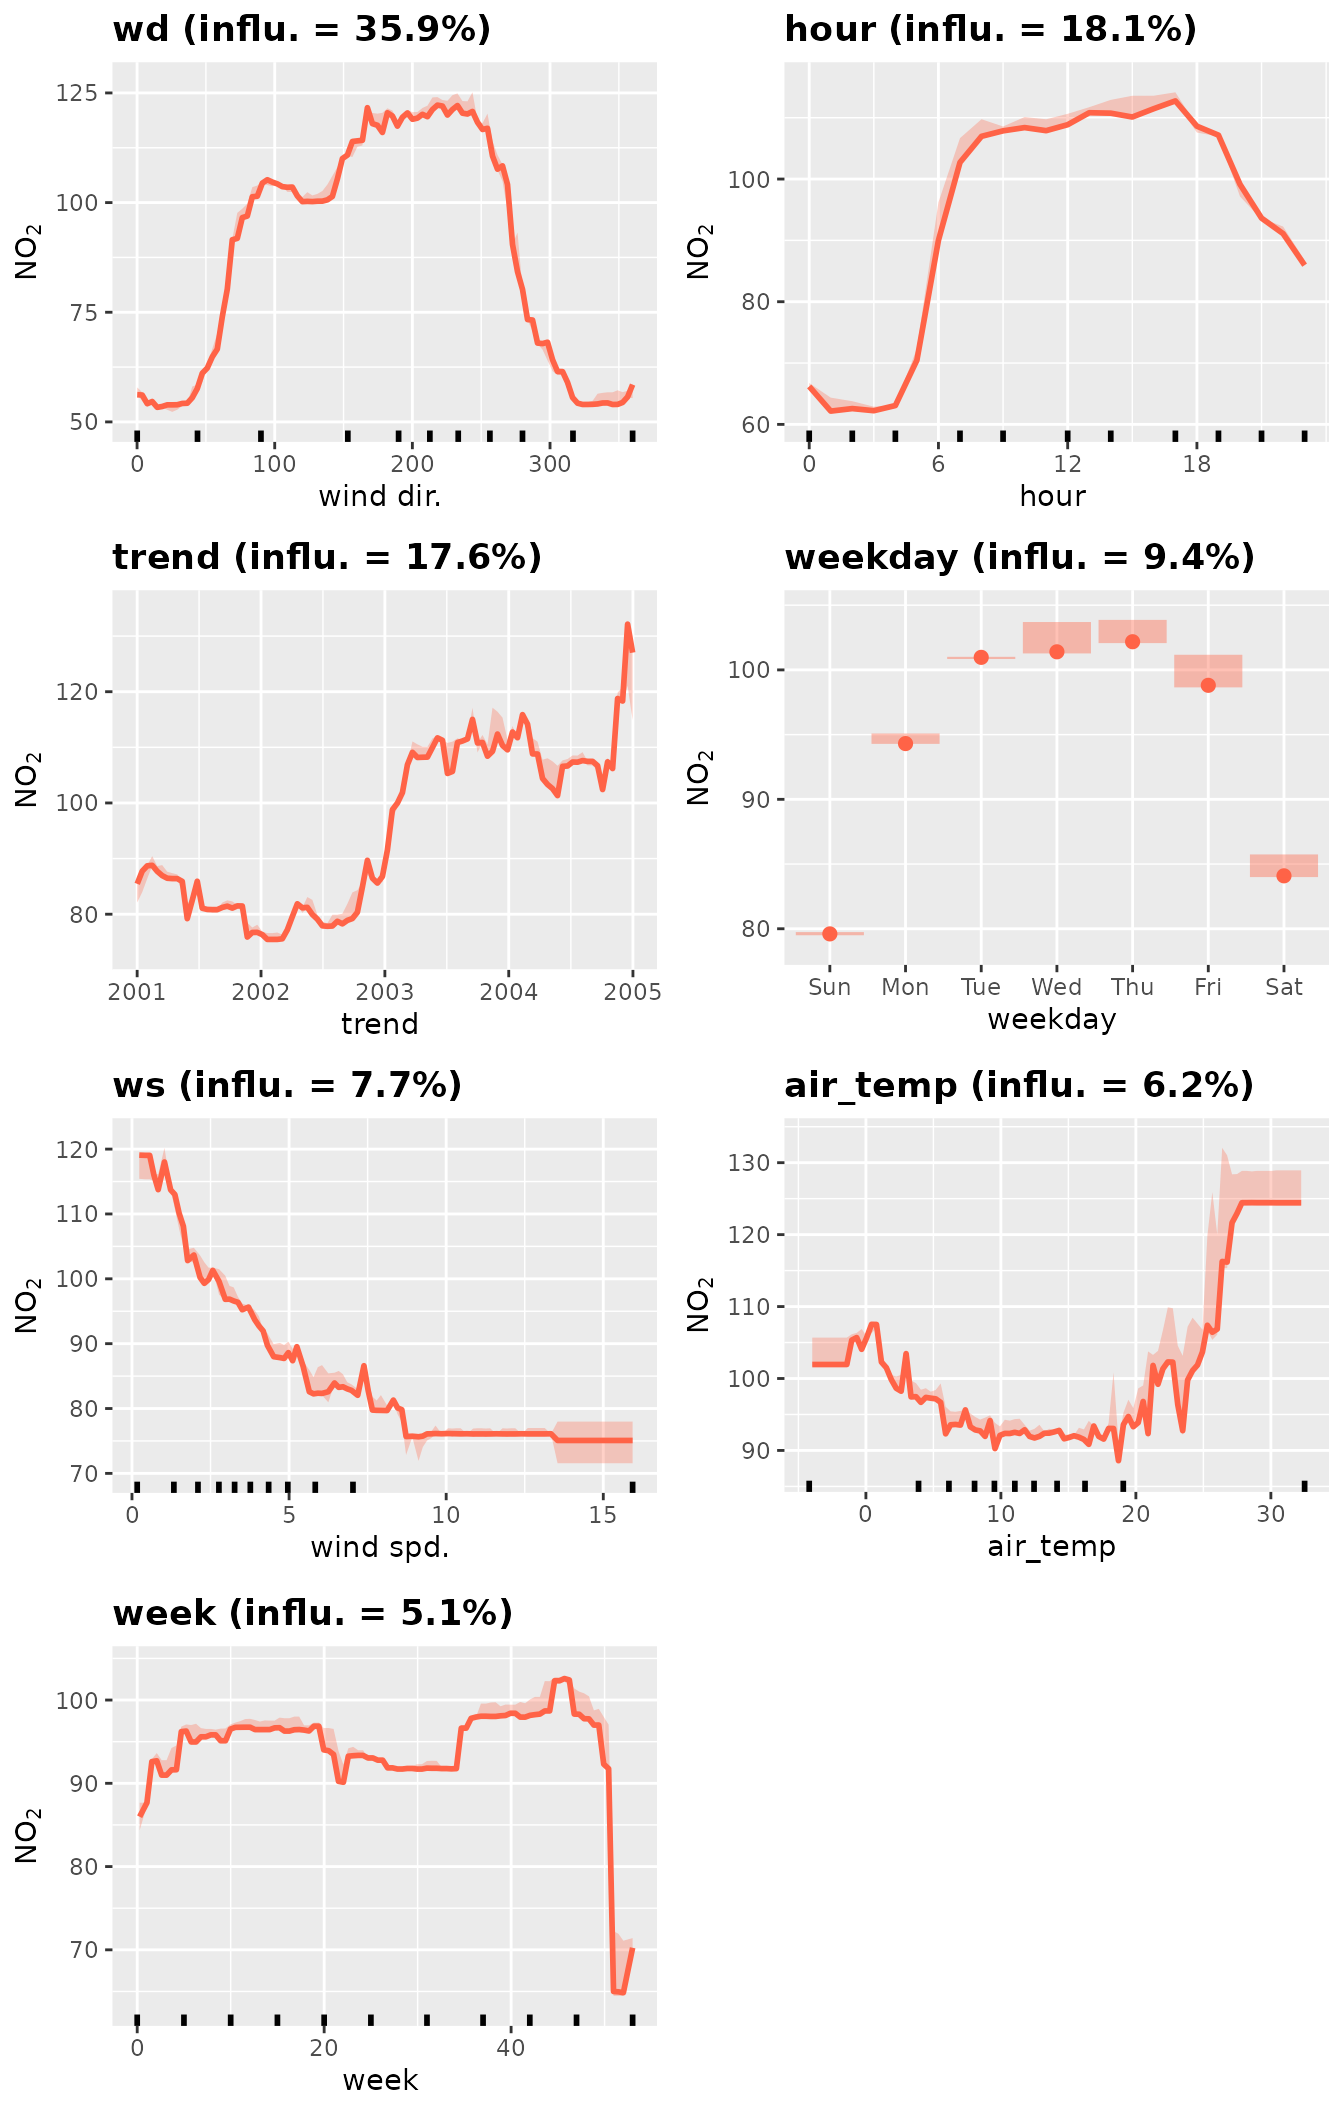
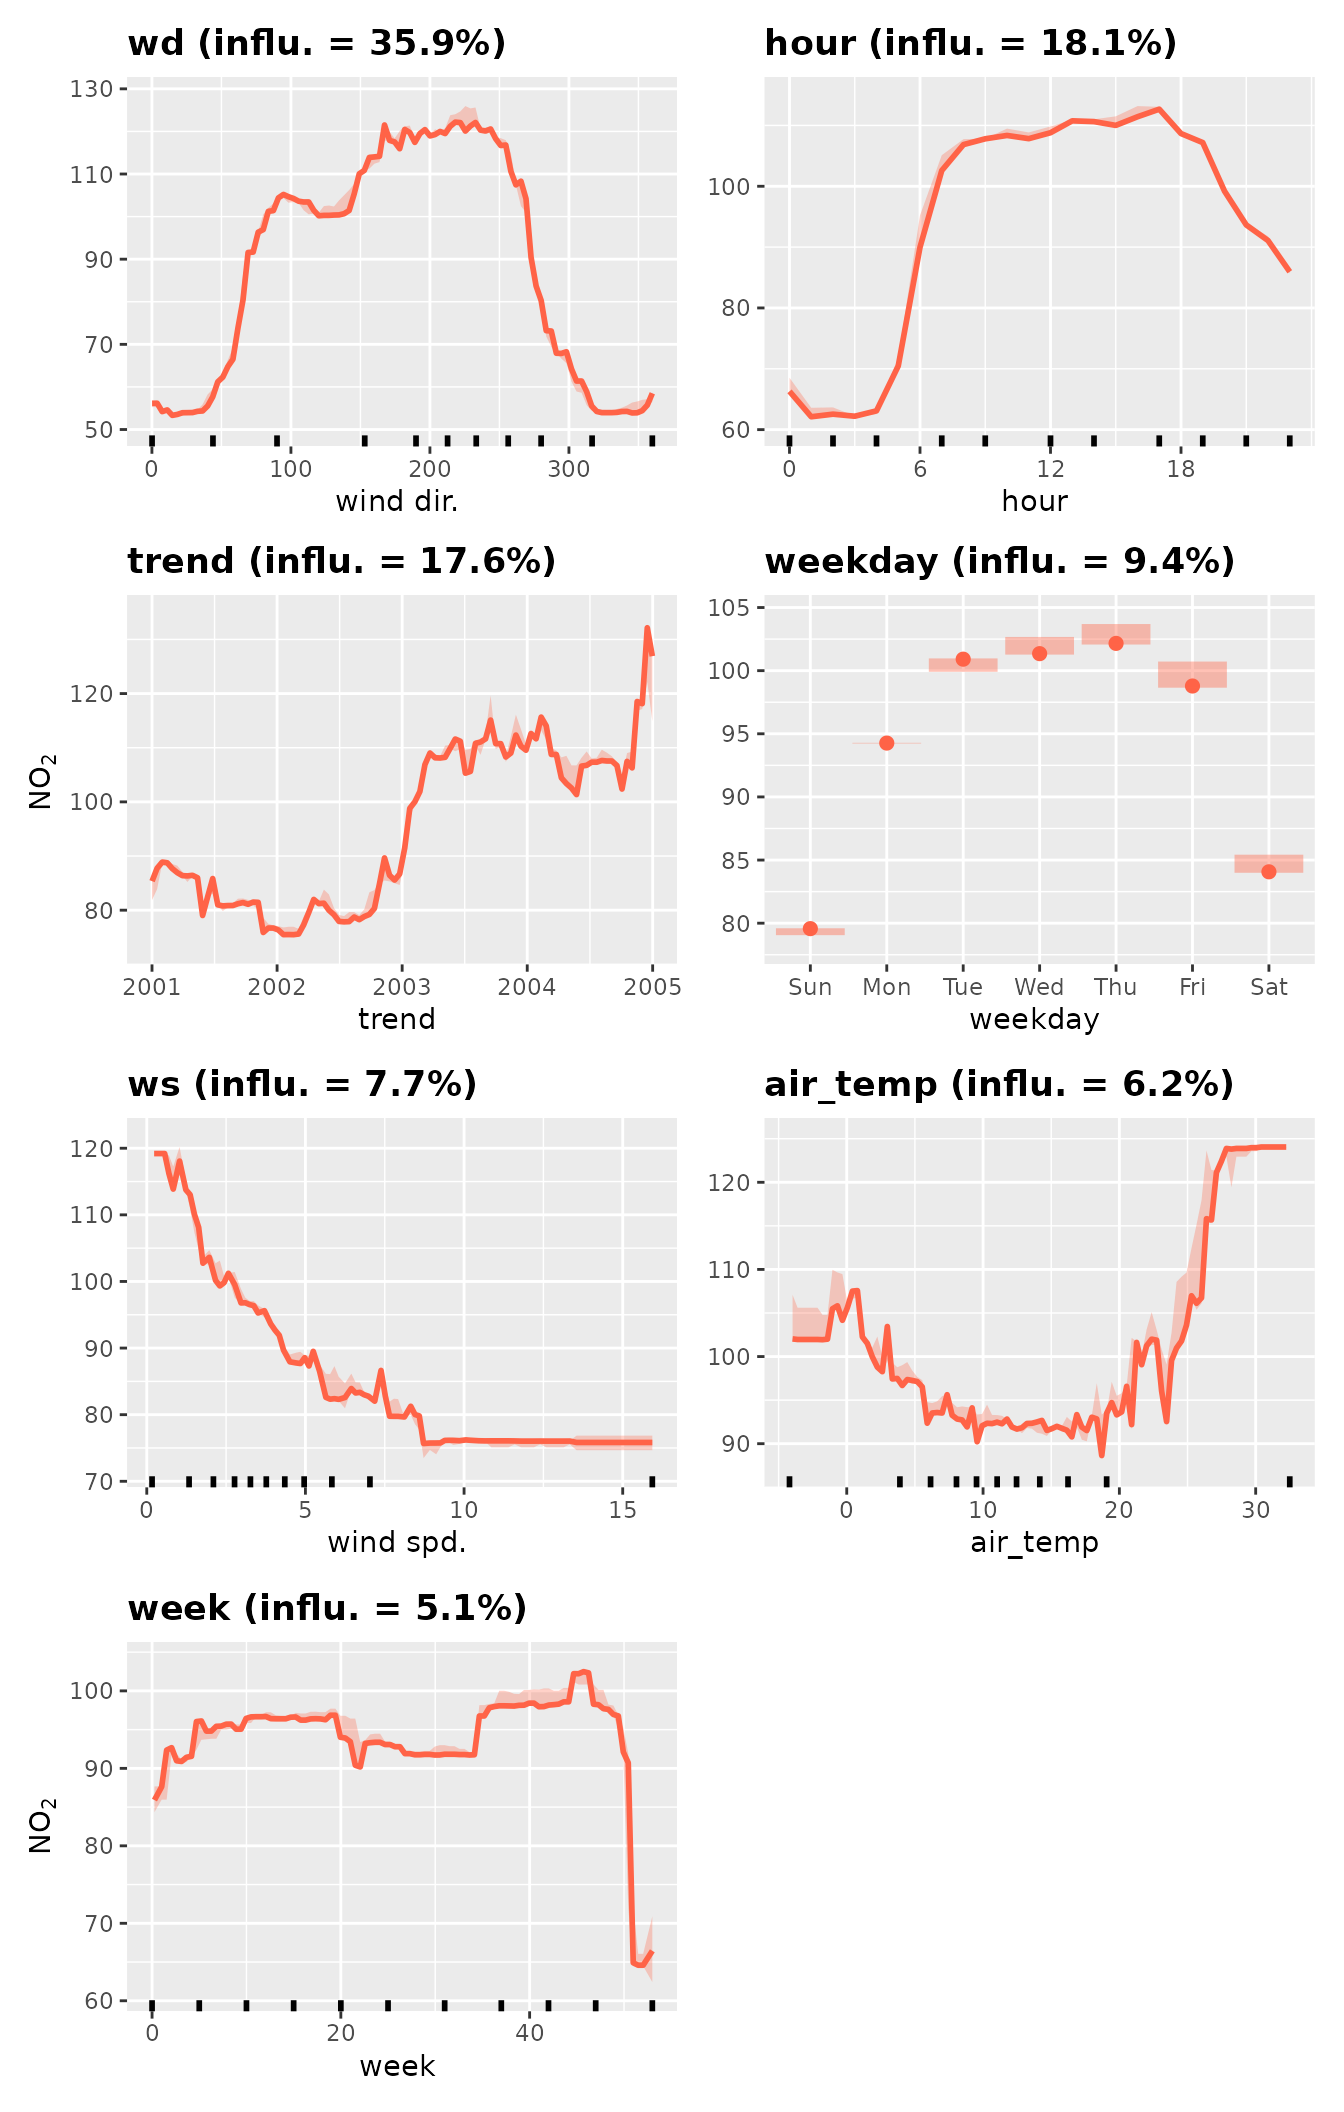
Deploying to gh-pages from @ davidcarslaw/deweather@df55d6a0297abe14c2368fe1ece583317ce153d7 🚀

diff --git a/news/index.html b/news/index.html
@@ -42,6 +42,10 @@
     <div class="section level2">
 <h2 class="pkg-version" data-toc-text="development version" id="deweather-development-version">deweather (development version)<a class="anchor" aria-label="anchor" href="#deweather-development-version"></a></h2>
 <div class="section level3">
+<h3 id="new-features-development-version">New Features<a class="anchor" aria-label="anchor" href="#new-features-development-version"></a></h3>
+<ul><li>The plot assemblies in <code><a href="../reference/plotPD.html">plotPD()</a></code> and <code><a href="../reference/testMod.html">testMod()</a></code> are now powered by <a href="https://patchwork.data-imaginist.com" class="external-link">patchwork</a>. This will allow for more post-hoc control of the plot assembly using <code>&amp;</code> for example.</li>
+</ul></div>
+<div class="section level3">
 <h3 id="bug-fixes-development-version">Bug fixes<a class="anchor" aria-label="anchor" href="#bug-fixes-development-version"></a></h3>
 <ul><li><p>Fixed an issue where <code><a href="../reference/buildMod.html">buildMod()</a></code> would fail if there wasn’t a character variable (e.g., “weekday”).</p></li>
 <li><p>added <code>ylab</code> back as an explicit option for <code>plotPD</code>.</p></li>
@@ -86,7 +90,7 @@
 </div>
     <div class="section level2">
 <h2 class="pkg-version" data-toc-text="0.7-1" id="deweather-07-1">deweather 0.7-1<a class="anchor" aria-label="anchor" href="#deweather-07-1"></a></h2>
-<ul><li>Development version of <a href="https://davidcarslaw.github.io/deweather/">deweather</a>.</li>
+<ul><li>First development version of <a href="https://davidcarslaw.github.io/deweather/">deweather</a>.</li>
 </ul></div>
   </main><aside class="col-md-3"><nav id="toc" aria-label="Table of contents"><h2>On this page</h2>
     </nav></aside></div>

diff --git a/reference/plotPD.html b/reference/plotPD.html
@@ -86,9 +86,7 @@ variables.</p></dd>
 
 
 <dt id="arg-col">col<a class="anchor" aria-label="anchor" href="#arg-col"></a></dt>
-<dd><p>Colour(s) to use for the lines/points/uncertainty ribbons. If
-multiple colours are provided (e.g., <code>cols = c("tomato", "royalblue")</code>),
-they will be cycled through until all variables are plotted.</p></dd>
+<dd><p>Colour for the panels. Passed to <code><a href="https://davidcarslaw.github.io/openair/reference/openColours.html" class="external-link">openair::openColours()</a></code>.</p></dd>
 
 
 <dt id="arg-nrow">nrow<a class="anchor" aria-label="anchor" href="#arg-nrow"></a></dt>
@@ -113,8 +111,11 @@ data to extract plot components and plotting them in other ways.</p></dd>
 </dl></div>
     <div class="section level2">
     <h2 id="value">Value<a class="anchor" aria-label="anchor" href="#value"></a></h2>
-    <p>Invisibly returns a list containing the plot and the data used to
-make the plot to allow post processing, e.g., modifying the <code>ggplot</code>.</p>
+    <p>Invisibly returns a list containing the plot, <code>plot</code>, a list of
+individual plots, <code>panels</code>, and a list of the data used to create them,
+<code>data</code>. <code>plot</code> is a <a href="https://patchwork.data-imaginist.com/reference/patchwork-package.html" class="external-link">patchwork</a> object, so
+can be further manipulated using <code>&amp;</code> and
+<a href="https://ggplot2.tidyverse.org/reference/ggplot2-package.html" class="external-link">ggplot2</a>.</p>
     </div>
     <div class="section level2">
     <h2 id="see-also">See also<a class="anchor" aria-label="anchor" href="#see-also"></a></h2>

diff --git a/articles/deweather.html b/articles/deweather.html
@@ -149,11 +149,6 @@ diurnal variation in emissions.</p>
 <span><span class="co">#&gt; <span style="color: #00BBBB;">ℹ</span> Optimum number of trees is <span style="font-weight: bold;">398</span></span></span>
 <span><span class="co">#&gt; <span style="color: #00BBBB;">ℹ</span> RMSE from cross-validation is <span style="font-weight: bold;">23.59</span></span></span>
 <span><span class="co">#&gt; <span style="color: #00BBBB;">ℹ</span> Percent increase in RMSE using test data is <span style="font-weight: bold;">28.0%</span></span></span></code></pre></div>
-<div class="figure">
-<img src="deweather_files/figure-html/testMod-1.png" alt="A scatter plot showing predicted nitrogen dioxide on the x-axis and measured nitrogen dioxide on the y-axis. Alongside is a table of statistical values describing the model performance, including R, RMSE, NMGE, NMB, MGE, MB, FAC2 and n." width="700"><p class="caption">
-A statistical summary of a <a href="https://davidcarslaw.github.io/deweather/">deweather</a> model test.
-</p>
-</div>
 <p>The output shows by default the performance of the model when applied
 to a withheld random 20% (by default) of the data, i.e., the model is
 evaluated against data not used to build the model. Common model
